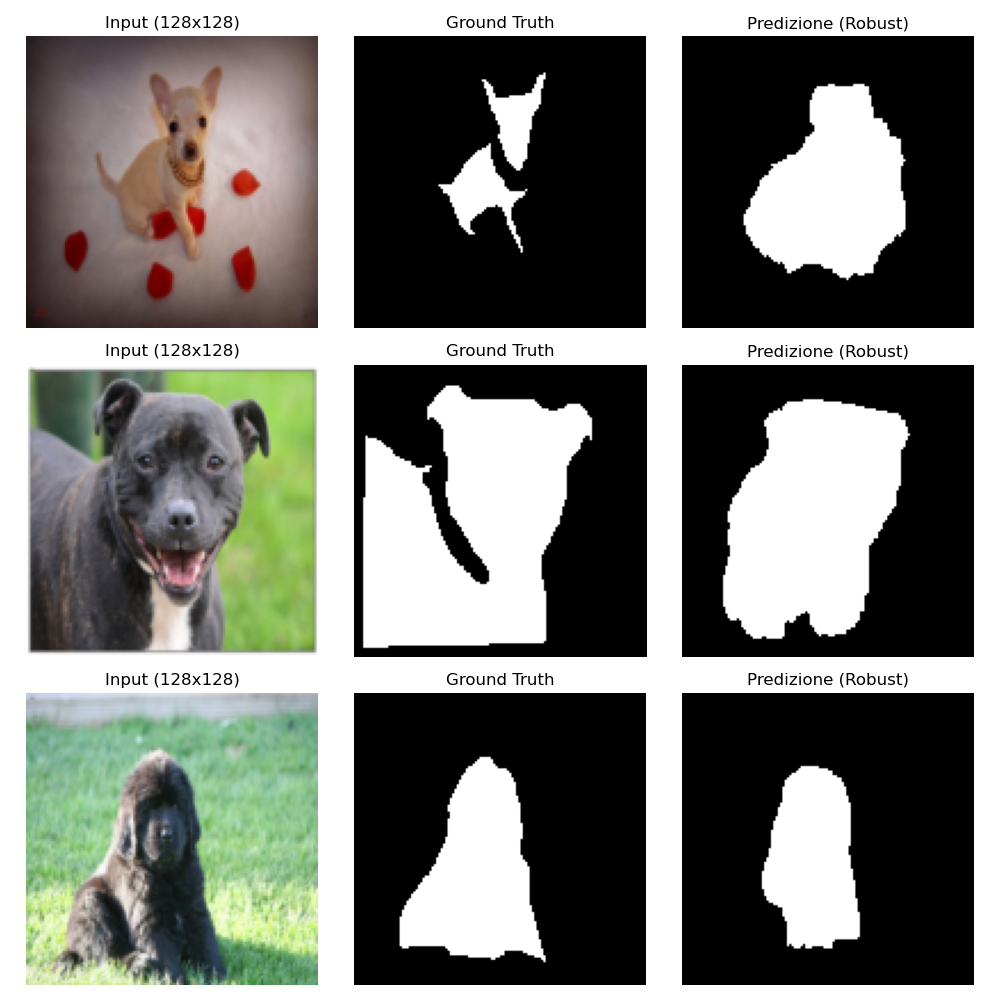
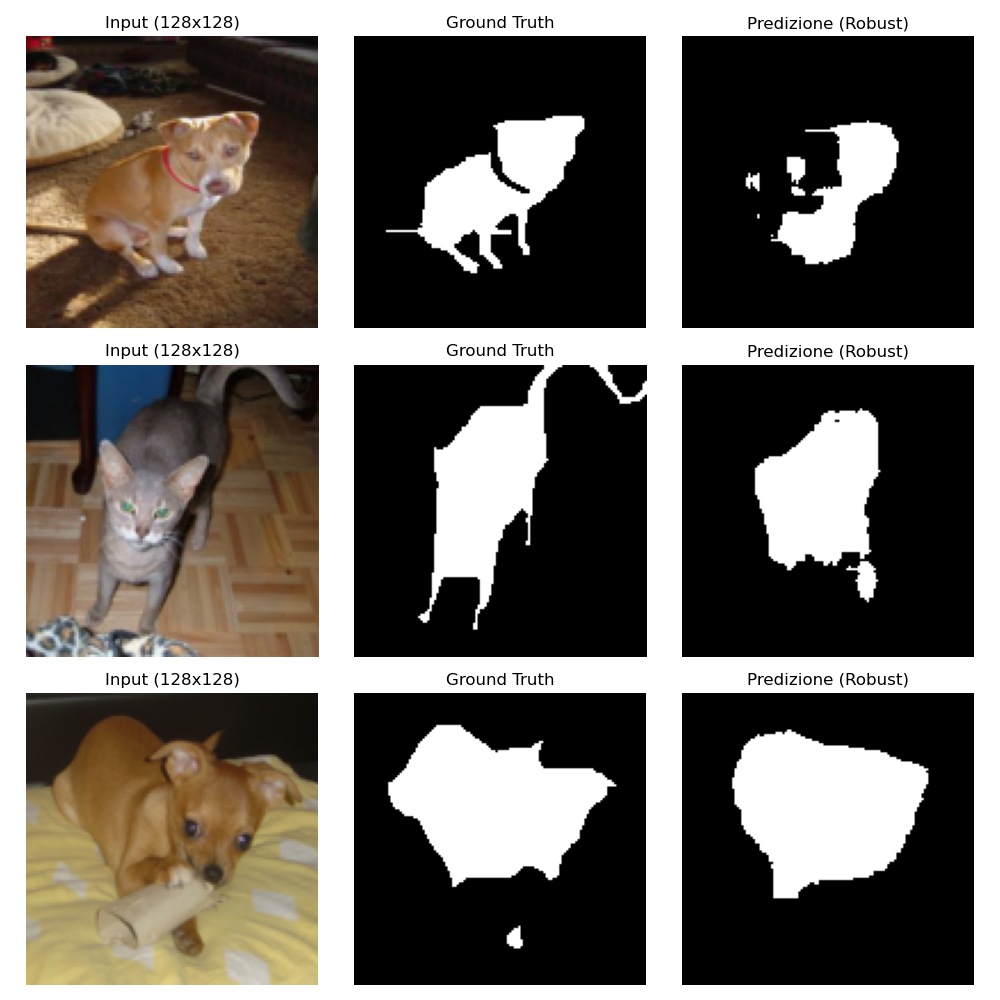
Nuovo training su 25 epoche con failure analysis

diff --git a/src/analyze_failures.py b/src/analyze_failures.py
@@ -1,0 +1,189 @@
+import torch
+import torch.nn as nn
+from torch.utils.data import DataLoader
+from dataset import PetDataset
+import matplotlib.pyplot as plt
+from torchvision import transforms
+import numpy as np
+
+# --- CONFIGURAZIONE ---
+# Assicurati che punti al file giusto (quello da 25 epoche appena finito)
+MODEL_PATH = './models/model_baseline.pth' 
+DATA_PATH = './data'
+DEVICE = torch.device("mps" if torch.backends.mps.is_available() else "cpu")
+
+# --- DEFINIZIONE DELLA UNET ORIGINALE (Grande) ---
+# La ridefiniamo qui per essere sicuri che combaci col tuo file salvato
+class DoubleConv(nn.Module):
+    def __init__(self, in_channels, out_channels):
+        super(DoubleConv, self).__init__()
+        self.conv = nn.Sequential(
+            nn.Conv2d(in_channels, out_channels, kernel_size=3, padding=1),
+            nn.BatchNorm2d(out_channels),
+            nn.ReLU(inplace=True),
+            nn.Conv2d(out_channels, out_channels, kernel_size=3, padding=1),
+            nn.BatchNorm2d(out_channels),
+            nn.ReLU(inplace=True)
+        )
+    def forward(self, x):
+        return self.conv(x)
+
+class StandardUNet(nn.Module):
+    def __init__(self, in_channels=3, out_channels=1):
+        super(StandardUNet, self).__init__()
+        # Questa struttura corrisponde ai pesi che hai salvato (d1, d2, ecc.)
+        self.d1 = DoubleConv(in_channels, 64)
+        self.d2 = DoubleConv(64, 128)
+        self.d3 = DoubleConv(128, 256)
+        self.d4 = DoubleConv(256, 512)
+        
+        self.bottleneck = DoubleConv(512, 1024)
+        
+        self.pool = nn.MaxPool2d(kernel_size=2, stride=2)
+        
+        self.up1 = nn.ConvTranspose2d(1024, 512, kernel_size=2, stride=2)
+        self.u1 = DoubleConv(1024, 512)
+        
+        self.up2 = nn.ConvTranspose2d(512, 256, kernel_size=2, stride=2)
+        self.u2 = DoubleConv(512, 256)
+        
+        self.up3 = nn.ConvTranspose2d(256, 128, kernel_size=2, stride=2)
+        self.u3 = DoubleConv(256, 128)
+        
+        self.up4 = nn.ConvTranspose2d(128, 64, kernel_size=2, stride=2)
+        self.u4 = DoubleConv(128, 64)
+        
+        self.final_conv = nn.Conv2d(64, out_channels, kernel_size=1)
+
+    def forward(self, x):
+        # Down
+        x1 = self.d1(x)
+        p1 = self.pool(x1)
+        x2 = self.d2(p1)
+        p2 = self.pool(x2)
+        x3 = self.d3(p2)
+        p3 = self.pool(x3)
+        x4 = self.d4(p3)
+        p4 = self.pool(x4)
+        
+        # Bottleneck
+        b = self.bottleneck(p4)
+        
+        # Up
+        up_1 = self.up1(b)
+        # Resize se necessario (gestione dimensioni dispari)
+        if up_1.shape != x4.shape:
+            up_1 = nn.functional.interpolate(up_1, size=x4.shape[2:])
+        merge1 = torch.cat([x4, up_1], dim=1)
+        x_up_1 = self.u1(merge1)
+        
+        up_2 = self.up2(x_up_1)
+        if up_2.shape != x3.shape:
+            up_2 = nn.functional.interpolate(up_2, size=x3.shape[2:])
+        merge2 = torch.cat([x3, up_2], dim=1)
+        x_up_2 = self.u2(merge2)
+        
+        up_3 = self.up3(x_up_2)
+        if up_3.shape != x2.shape:
+            up_3 = nn.functional.interpolate(up_3, size=x2.shape[2:])
+        merge3 = torch.cat([x2, up_3], dim=1)
+        x_up_3 = self.u3(merge3)
+        
+        up_4 = self.up4(x_up_3)
+        if up_4.shape != x1.shape:
+            up_4 = nn.functional.interpolate(up_4, size=x1.shape[2:])
+        merge4 = torch.cat([x1, up_4], dim=1)
+        x_up_4 = self.u4(merge4)
+        
+        return self.final_conv(x_up_4)
+
+def analyze_failures():
+    print(f"🕵♂ Analisi Errori sul modello STANDARD: {MODEL_PATH}")
+    
+    # 1. Carica Modello (Usando la classe StandardUNet)
+    model = StandardUNet(in_channels=3, out_channels=1).to(DEVICE)
+    try:
+        model.load_state_dict(torch.load(MODEL_PATH, map_location=DEVICE))
+        print("✅ Modello caricato con successo!")
+        model.eval()
+    except Exception as e:
+        print(f"❌ Errore caricamento modello: {e}")
+        return
+
+    # 2. Dataset di Test
+    transform = transforms.Compose([
+        transforms.Resize((128, 128)),
+        transforms.ToTensor(),
+        transforms.Normalize(mean=[0.485, 0.456, 0.406], std=[0.229, 0.224, 0.225])
+    ])
+    mask_transform = transforms.Compose([
+        transforms.Resize((128, 128), interpolation=transforms.InterpolationMode.NEAREST),
+        transforms.PILToTensor()
+    ])
+    
+    dataset = PetDataset(root_dir=DATA_PATH, split='test') 
+    dataset.img_transform = transform
+    dataset.mask_transform = mask_transform
+    loader = DataLoader(dataset, batch_size=1, shuffle=False)
+    
+    worst_cases = []
+
+    print("   Scansione dataset per trovare fallimenti...")
+    with torch.no_grad():
+        for i, (img, mask) in enumerate(loader):
+            img = img.to(DEVICE)
+            mask = mask.to(DEVICE)
+            
+            output = model(img)
+            pred = (torch.sigmoid(output) > 0.5).float()
+            
+            # Calcolo IoU
+            intersection = (pred * mask).sum()
+            union = pred.sum() + mask.sum() - intersection
+            iou = (intersection + 1e-6) / (union + 1e-6)
+            
+            # Salviamo se l'IoU è basso
+            if iou < 0.4: # Soglia un po' più alta per trovare più esempi
+                worst_cases.append((iou.item(), img, mask, pred))
+
+    # Ordiniamo per errore peggiore
+    worst_cases.sort(key=lambda x: x[0])
+    
+    # Prendiamo i peggiori 6
+    top_fails = worst_cases[:6]
+    print(f"   Trovati {len(worst_cases)} casi critici. Mostro i peggiori {len(top_fails)}.")
+
+    if top_fails:
+        rows = len(top_fails)
+        fig, axs = plt.subplots(rows, 3, figsize=(10, 3 * rows))
+        if rows == 1: axs = [axs] # Gestione caso singolo
+        
+        for idx, (iou, img, gt, pred) in enumerate(top_fails):
+            # Denormalizza immagine
+            img_disp = img.squeeze().cpu().permute(1, 2, 0).numpy()
+            img_disp = img_disp * np.array([0.229, 0.224, 0.225]) + np.array([0.485, 0.456, 0.406])
+            img_disp = np.clip(img_disp, 0, 1)
+            
+            # Se ci sono più righe usiamo axs[idx, 0], altrimenti axs[0]
+            ax_row = axs[idx] if rows > 1 else axs
+            
+            ax_row[0].imshow(img_disp)
+            ax_row[0].set_title(f"IoU: {iou:.2f}")
+            ax_row[0].axis('off')
+            
+            ax_row[1].imshow(gt.squeeze().cpu(), cmap='gray')
+            ax_row[1].set_title("Realtà")
+            ax_row[1].axis('off')
+            
+            ax_row[2].imshow(pred.squeeze().cpu(), cmap='gray')
+            ax_row[2].set_title("Predizione Errata")
+            ax_row[2].axis('off')
+            
+        plt.tight_layout()
+        plt.savefig('./outputs/failure_analysis.png')
+        print("✅ Analisi salvata in outputs/failure_analysis.png")
+    else:
+        print("Nessun errore grave trovato sotto la soglia 0.4.")
+
+if __name__ == "__main__":
+    analyze_failures()

diff --git a/src/train_robust.py b/src/train_robust.py
@@ -2,65 +2,80 @@ import torch
 from torch.utils.data import DataLoader, random_split
 import torch.optim as optim
 from torchvision import transforms
-from unet import MiniUNet  # <--- USIAMO LA STESSA RETE DEL BASELINE!
+from unet import MiniUNet  
 from dataset import PetDataset
 from utils import combined_loss
 import os
 import matplotlib.pyplot as plt
+import time
 
 # --- CONFIGURAZIONE ---
-BATCH_SIZE = 8
-LEARNING_RATE = 1e-4
-NUM_EPOCHS = 10
+BATCH_SIZE = 8 
+LEARNING_RATE = 1e-3 
+NUM_EPOCHS = 25     
 DATA_PATH = './data'
 MODEL_SAVE_PATH = './models/model_robust.pth'
 
-# --- DATA AUGMENTATION ---
-# Questa è la "cura" per l'overfitting che hai visto nel grafico
+# --- AUGMENTATION ---
 robust_transforms = transforms.Compose([
-    transforms.Resize((128, 128)), # Manteniamo 128x128 per velocità
-    # 1. Geometria: Rotazioni e ribaltamenti per invarianza posizionale
+    transforms.Resize((128, 128)),
+    
+    # 1. Rotazione e Flip (Per i gatti storti/sdraiati)
+    transforms.RandomRotation(degrees=20),
     transforms.RandomHorizontalFlip(p=0.5),
-    transforms.RandomRotation(degrees=15),
-    # 2. Colore: Per evitare che impari "quel" marrone specifico
-    transforms.ColorJitter(brightness=0.3, contrast=0.3, saturation=0.3, hue=0.1),
-    # 3. Qualità: Sfocatura per robustezza ai bordi
-    transforms.GaussianBlur(kernel_size=3, sigma=(0.1, 1.0)),
+    
+    # 2. Contrasto e Colore (Per gli animali scuri su sfondo scuro)
+    transforms.ColorJitter(brightness=0.2, contrast=0.2, saturation=0.2, hue=0.1),
+    
+    # 3. Sfocatura (Per le texture complesse come il gatto tigrato)
+    transforms.RandomApply([transforms.GaussianBlur(kernel_size=3, sigma=(0.1, 2.0))], p=0.5),
+    
     transforms.ToTensor(),
-    # 4. Rumore: Regolarizzatore forte
-    transforms.Lambda(lambda x: x + 0.05 * torch.randn_like(x)),
-    # 5. Normalizzazione standard di ImageNet
+    
+    # 4. Rumore (Regolarizzazione generale)
+    transforms.Lambda(lambda x: x + 0.02 * torch.randn_like(x)),
+    
+    # Normalizzazione Standard
     transforms.Normalize(mean=[0.485, 0.456, 0.406], std=[0.229, 0.224, 0.225])
+])
+
+mask_transform = transforms.Compose([
+    transforms.Resize((128, 128), interpolation=transforms.InterpolationMode.NEAREST),
+    transforms.PILToTensor()
 ])
 
 def train_robust():
     device = torch.device("mps" if torch.backends.mps.is_available() else "cpu")
-    print(f"🛡  Avvio Training Robusto (Soluzione all'Overfitting) su {device}...")
+    print(f"🛡  Avvio Training Robusto Scientifico (Scheduler + Augmentation) su {device}...")
 
-    # 1. Dataset: Sovrascriviamo le trasformazioni
+    # 1. Dataset
     full_dataset = PetDataset(root_dir=DATA_PATH, split='trainval')
-    full_dataset.img_transform = robust_transforms # Iniettiamo l'augmentation
-    print("   ✅ Applicata Heavy Data Augmentation.")
+    full_dataset.img_transform = robust_transforms 
+    full_dataset.mask_transform = mask_transform
 
     train_size = int(0.8 * len(full_dataset))
     val_size = len(full_dataset) - train_size
     train_dataset, val_dataset = random_split(full_dataset, [train_size, val_size])
     
-    # num_workers=0 per stabilità
     train_loader = DataLoader(train_dataset, batch_size=BATCH_SIZE, shuffle=True, num_workers=0)
     val_loader = DataLoader(val_dataset, batch_size=BATCH_SIZE, shuffle=False, num_workers=0)
 
-    # 2. Modello: MiniUNet (lo stesso usato nel baseline per confronto ottimale)
+    # 2. Modello
     model = MiniUNet(in_channels=3, out_channels=1).to(device)
     optimizer = optim.Adam(model.parameters(), lr=LEARNING_RATE)
     
-    train_loss_hist = []
-    val_loss_hist = []
+    # --- SCHEDULER ---
+    scheduler = optim.lr_scheduler.ReduceLROnPlateau(optimizer, mode='min', factor=0.5, patience=3)
+
+    train_hist = []
+    val_hist = []
     
-    print("\n--- INIZIO TRAINING ROBUSTO ---")
+    start_time = time.time()
+
+    print("\n--- INIZIO TRAINING ---")
     for epoch in range(NUM_EPOCHS):
         model.train()
-        epoch_loss = 0
+        train_loss = 0.0
         
         for images, masks in train_loader:
             images, masks = images.to(device), masks.to(device)
@@ -69,14 +84,14 @@ def train_robust():
             loss = combined_loss(outputs, masks)
             loss.backward()
             optimizer.step()
-            epoch_loss += loss.item()
+            train_loss += loss.item()
             
-        avg_train = epoch_loss / len(train_loader)
-        train_loss_hist.append(avg_train)
+        avg_train = train_loss / len(train_loader)
+        train_hist.append(avg_train)
 
-        # Validazione
+        # Validation
         model.eval()
-        val_loss = 0
+        val_loss = 0.0
         with torch.no_grad():
             for images, masks in val_loader:
                 images, masks = images.to(device), masks.to(device)
@@ -85,22 +100,34 @@ def train_robust():
                 val_loss += loss.item()
         
         avg_val = val_loss / len(val_loader)
-        val_loss_hist.append(avg_val)
+        val_hist.append(avg_val)
         
-        print(f"Epoch [{epoch+1}/{NUM_EPOCHS}] Train: {avg_train:.4f} | Val: {avg_val:.4f}")
+        # Aggiorna lo scheduler
+        scheduler.step(avg_val)
+        
+        # Lettura manuale del LR corrente per stamparlo
+        current_lr = optimizer.param_groups[0]['lr']
 
-    # 3. Salvataggio Grafico Confronto
+        print(f"Epoch [{epoch+1}/{NUM_EPOCHS}] Train: {avg_train:.4f} | Val: {avg_val:.4f} | LR: {current_lr:.6f}")
+
+    total_time = time.time() - start_time
+    print(f"⏱ Tempo totale: {total_time/60:.2f} minuti")
+
+    # 3. Grafico Finale
     plt.figure(figsize=(10, 6))
-    plt.plot(train_loss_hist, label='Train (Robust)')
-    plt.plot(val_loss_hist, label='Val (Robust)')
-    plt.title('Curve di Apprendimento con Data Augmentation')
-    plt.xlabel('Epoche')
+    plt.plot(train_hist, label='Training Loss')
+    plt.plot(val_hist, label='Validation Loss')
+    plt.title('Robust Training Curves (Scheduler + Targeted Augmentation)')
+    plt.xlabel('Epochs')
     plt.ylabel('Loss')
     plt.legend()
-    plt.savefig('./outputs/robust_learning_curves.png')
+    plt.grid(True)
+    
+    os.makedirs('./outputs', exist_ok=True)
+    plt.savefig('./outputs/robust_final_curves.png')
     
     torch.save(model.state_dict(), MODEL_SAVE_PATH)
-    print("✅ Training completato. Grafico salvato.")
+    print(f"✅ Training concluso. Modello salvato in {MODEL_SAVE_PATH}")
 
 if __name__ == "__main__":
     train_robust()

diff --git a/src/train.py b/src/train.py
@@ -11,7 +11,7 @@ import time
 # --- CONFIGURAZIONE PER IL PROF ---
 BATCH_SIZE = 8
 LEARNING_RATE = 1e-4
-NUM_EPOCHS = 10
+NUM_EPOCHS = 25
 DATA_PATH = './data'
 
 def train_and_analyze():
